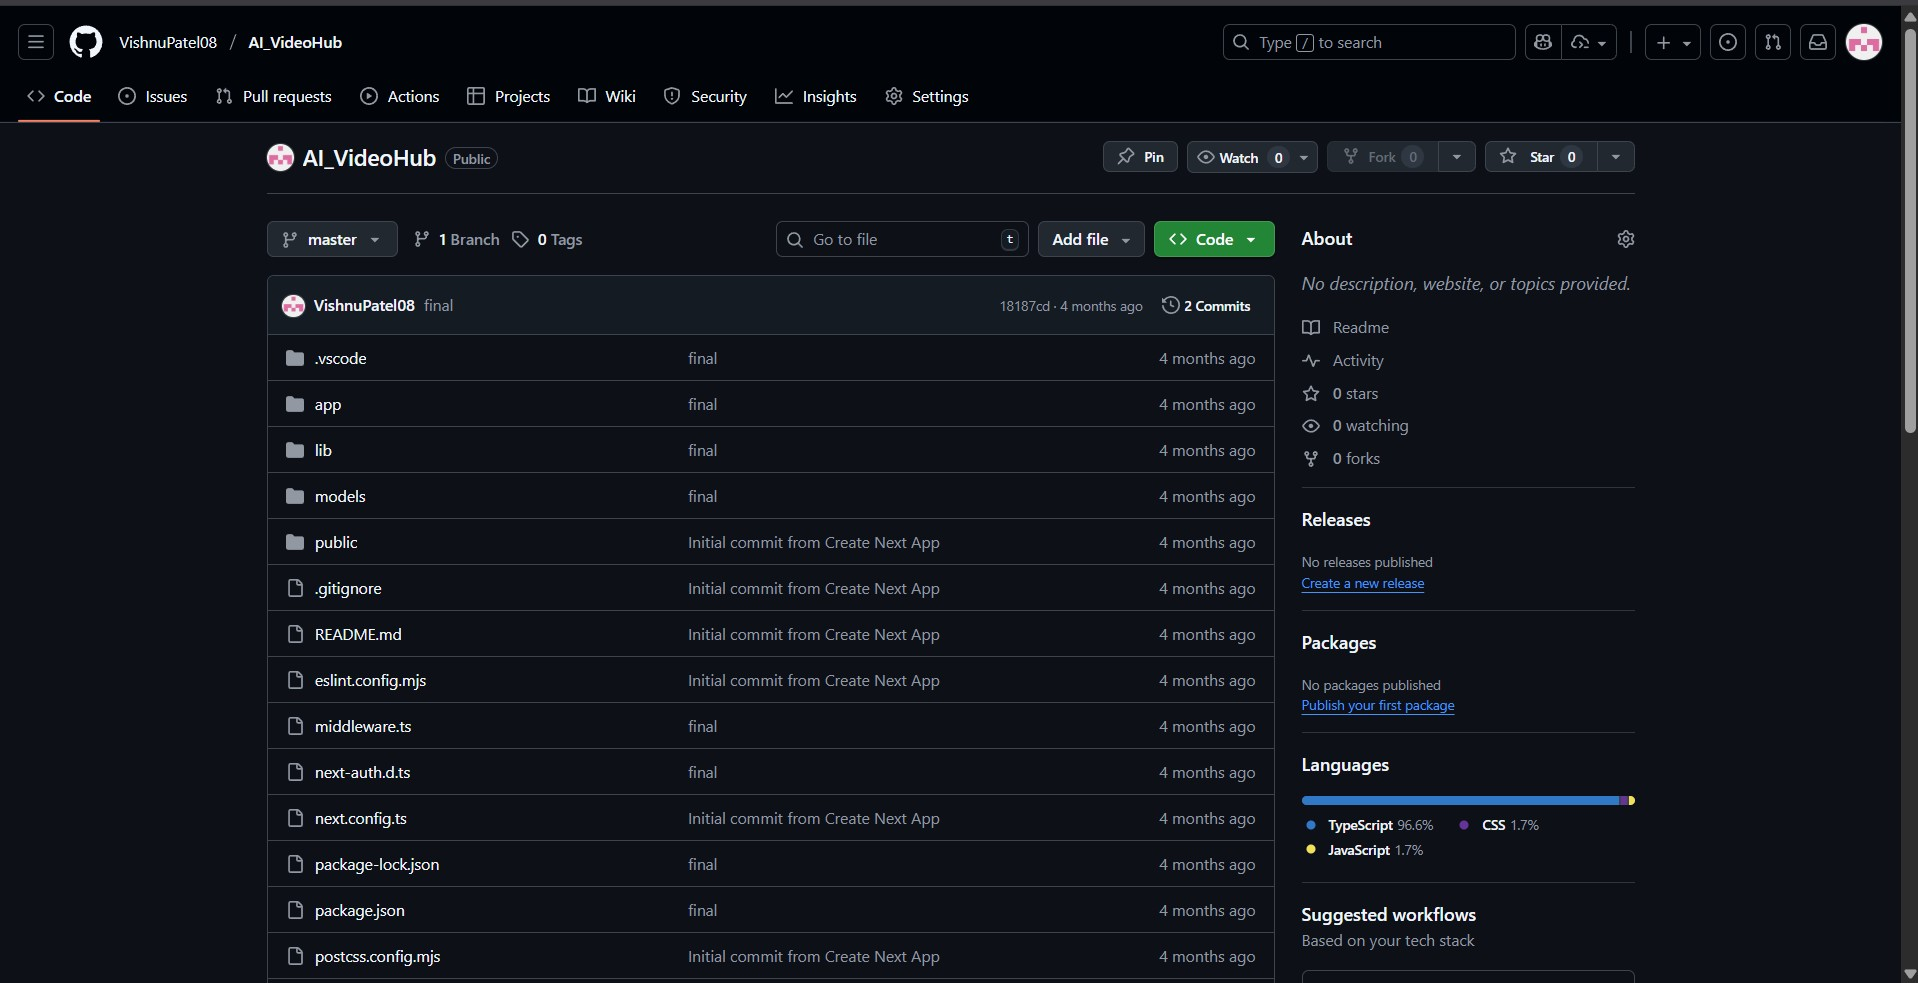
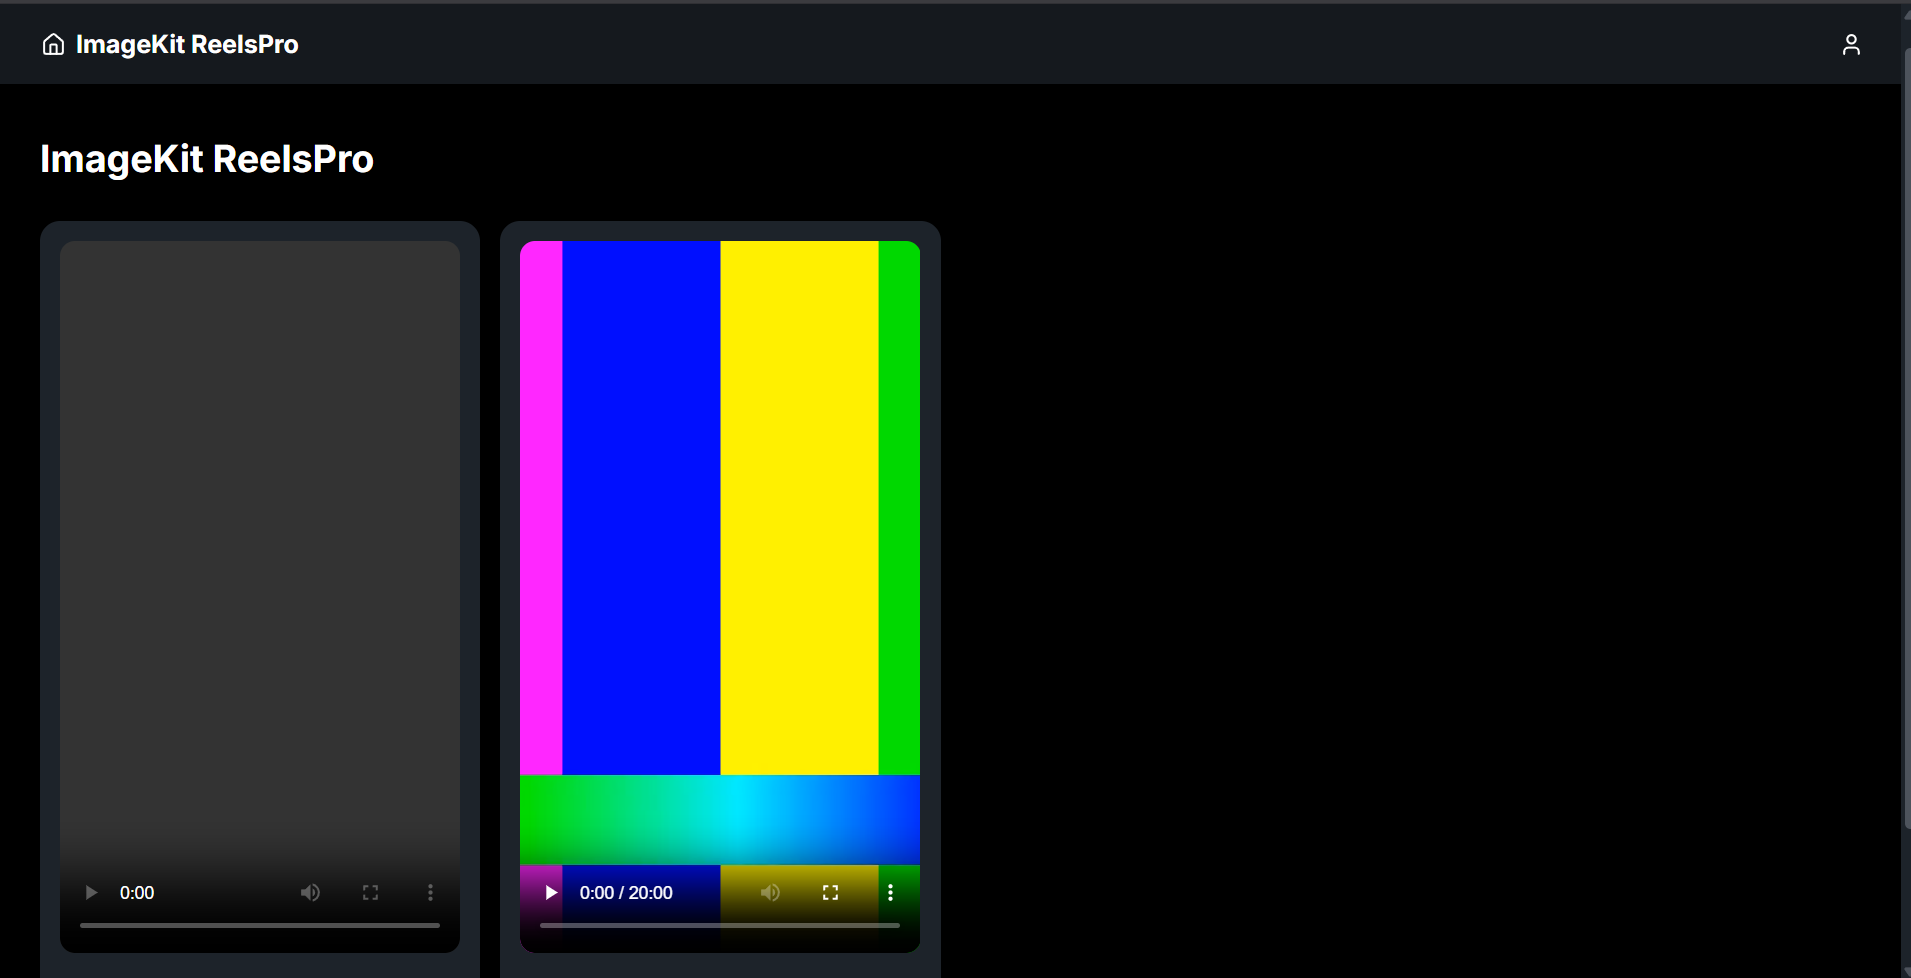
Resume updated

diff --git a/index.html b/index.html
@@ -412,7 +412,7 @@
                             <img src="images/project2.jpg" alt="AI Powered VideoApp">
                             <div class="project-overlay">
                                 <div class="project-actions">
-                                    <a href="#" class="project-btn" target="_blank">
+                                    <a href="https://reelspro-latest.onrender.com/" class="project-btn" target="_blank">
                                         <i class="fas fa-external-link-alt"></i>
                                     </a>
                                     <a href="https://github.com/VishnuPatel08/AI_VideoHub" class="project-btn" target="_blank">
